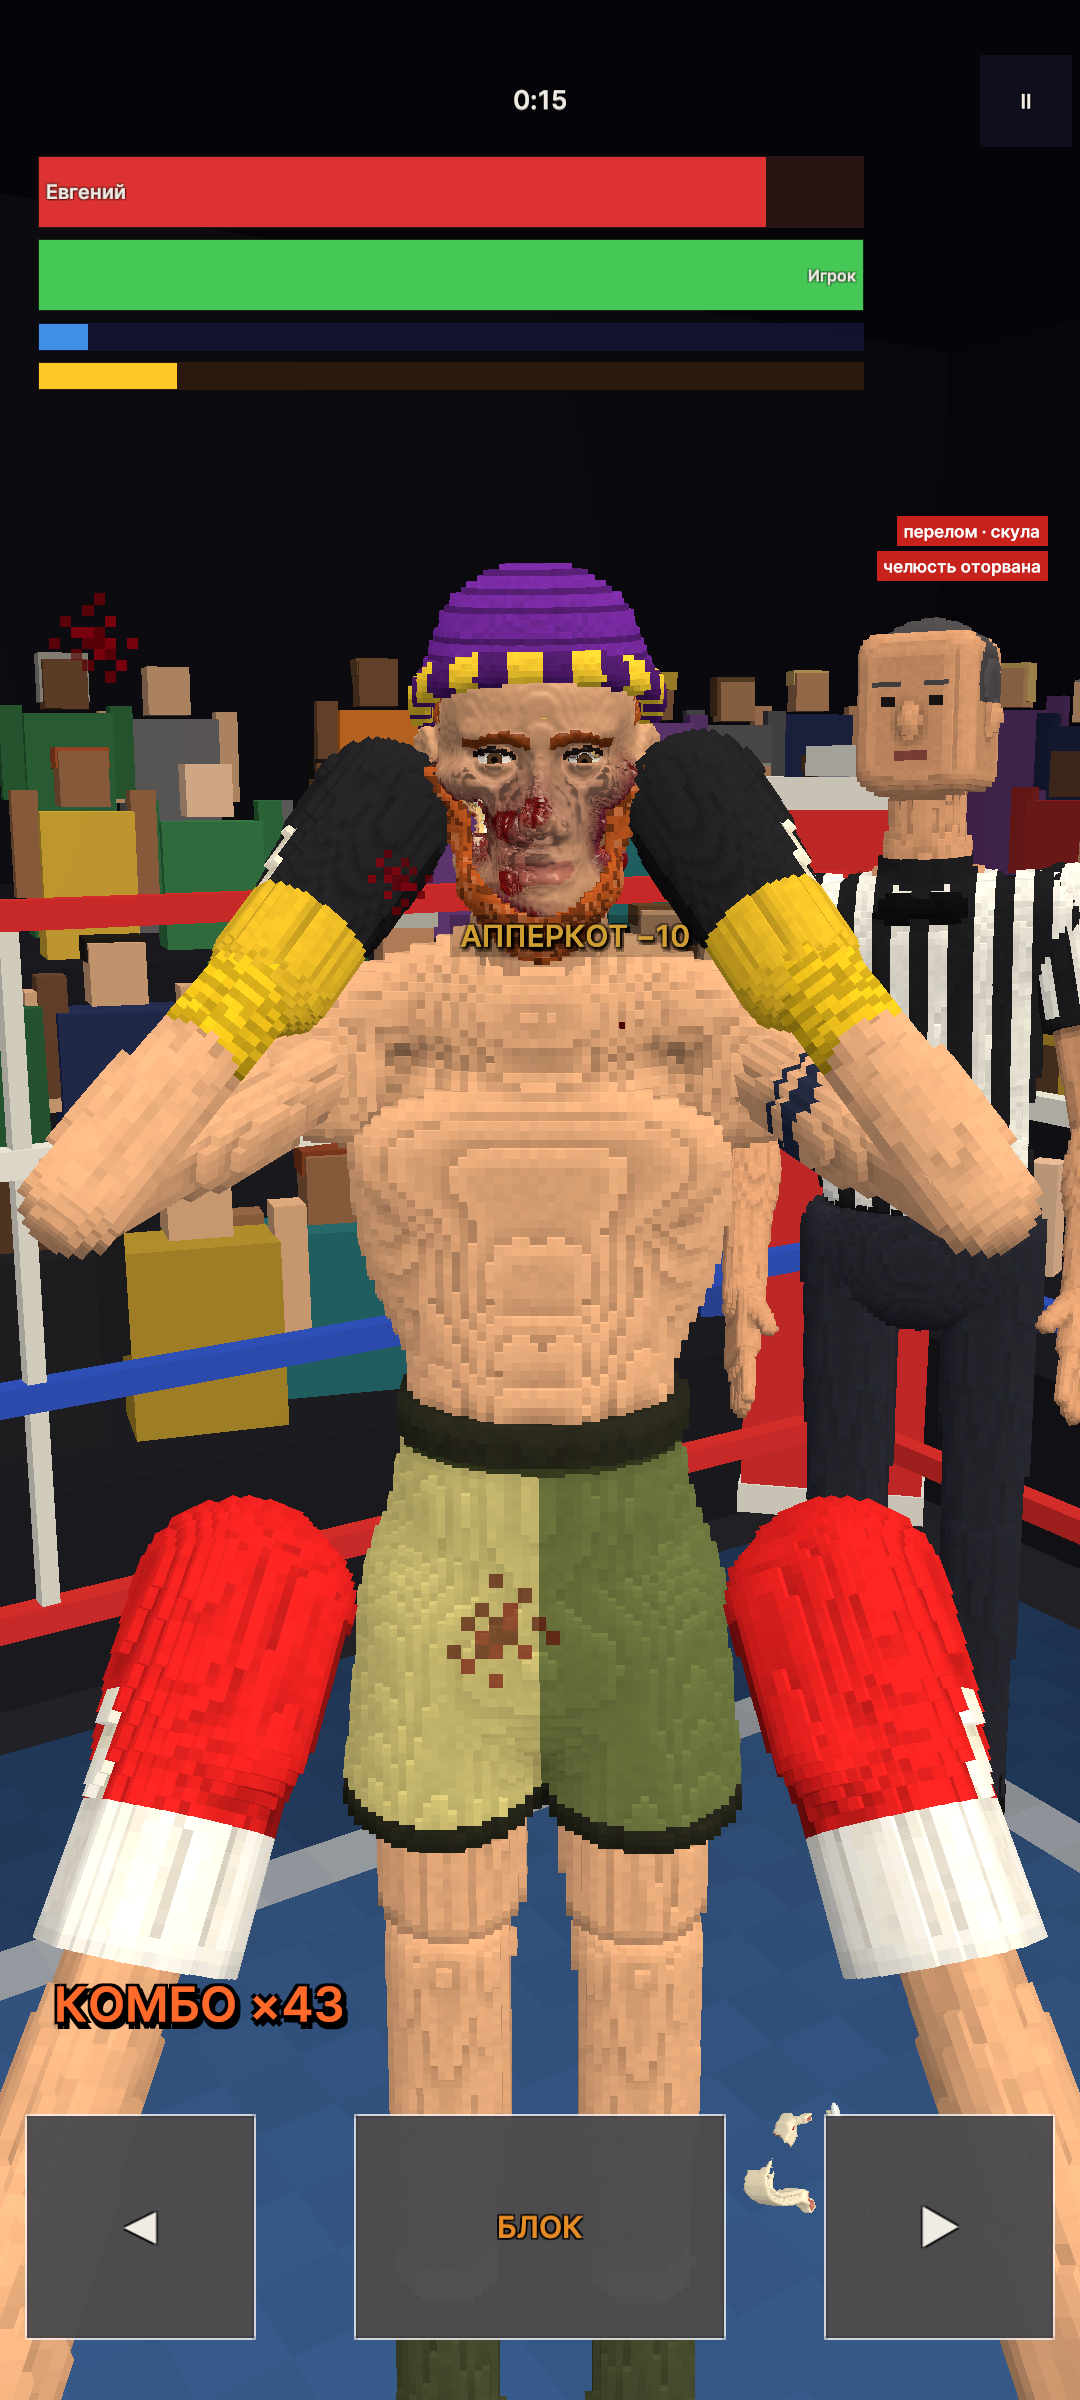
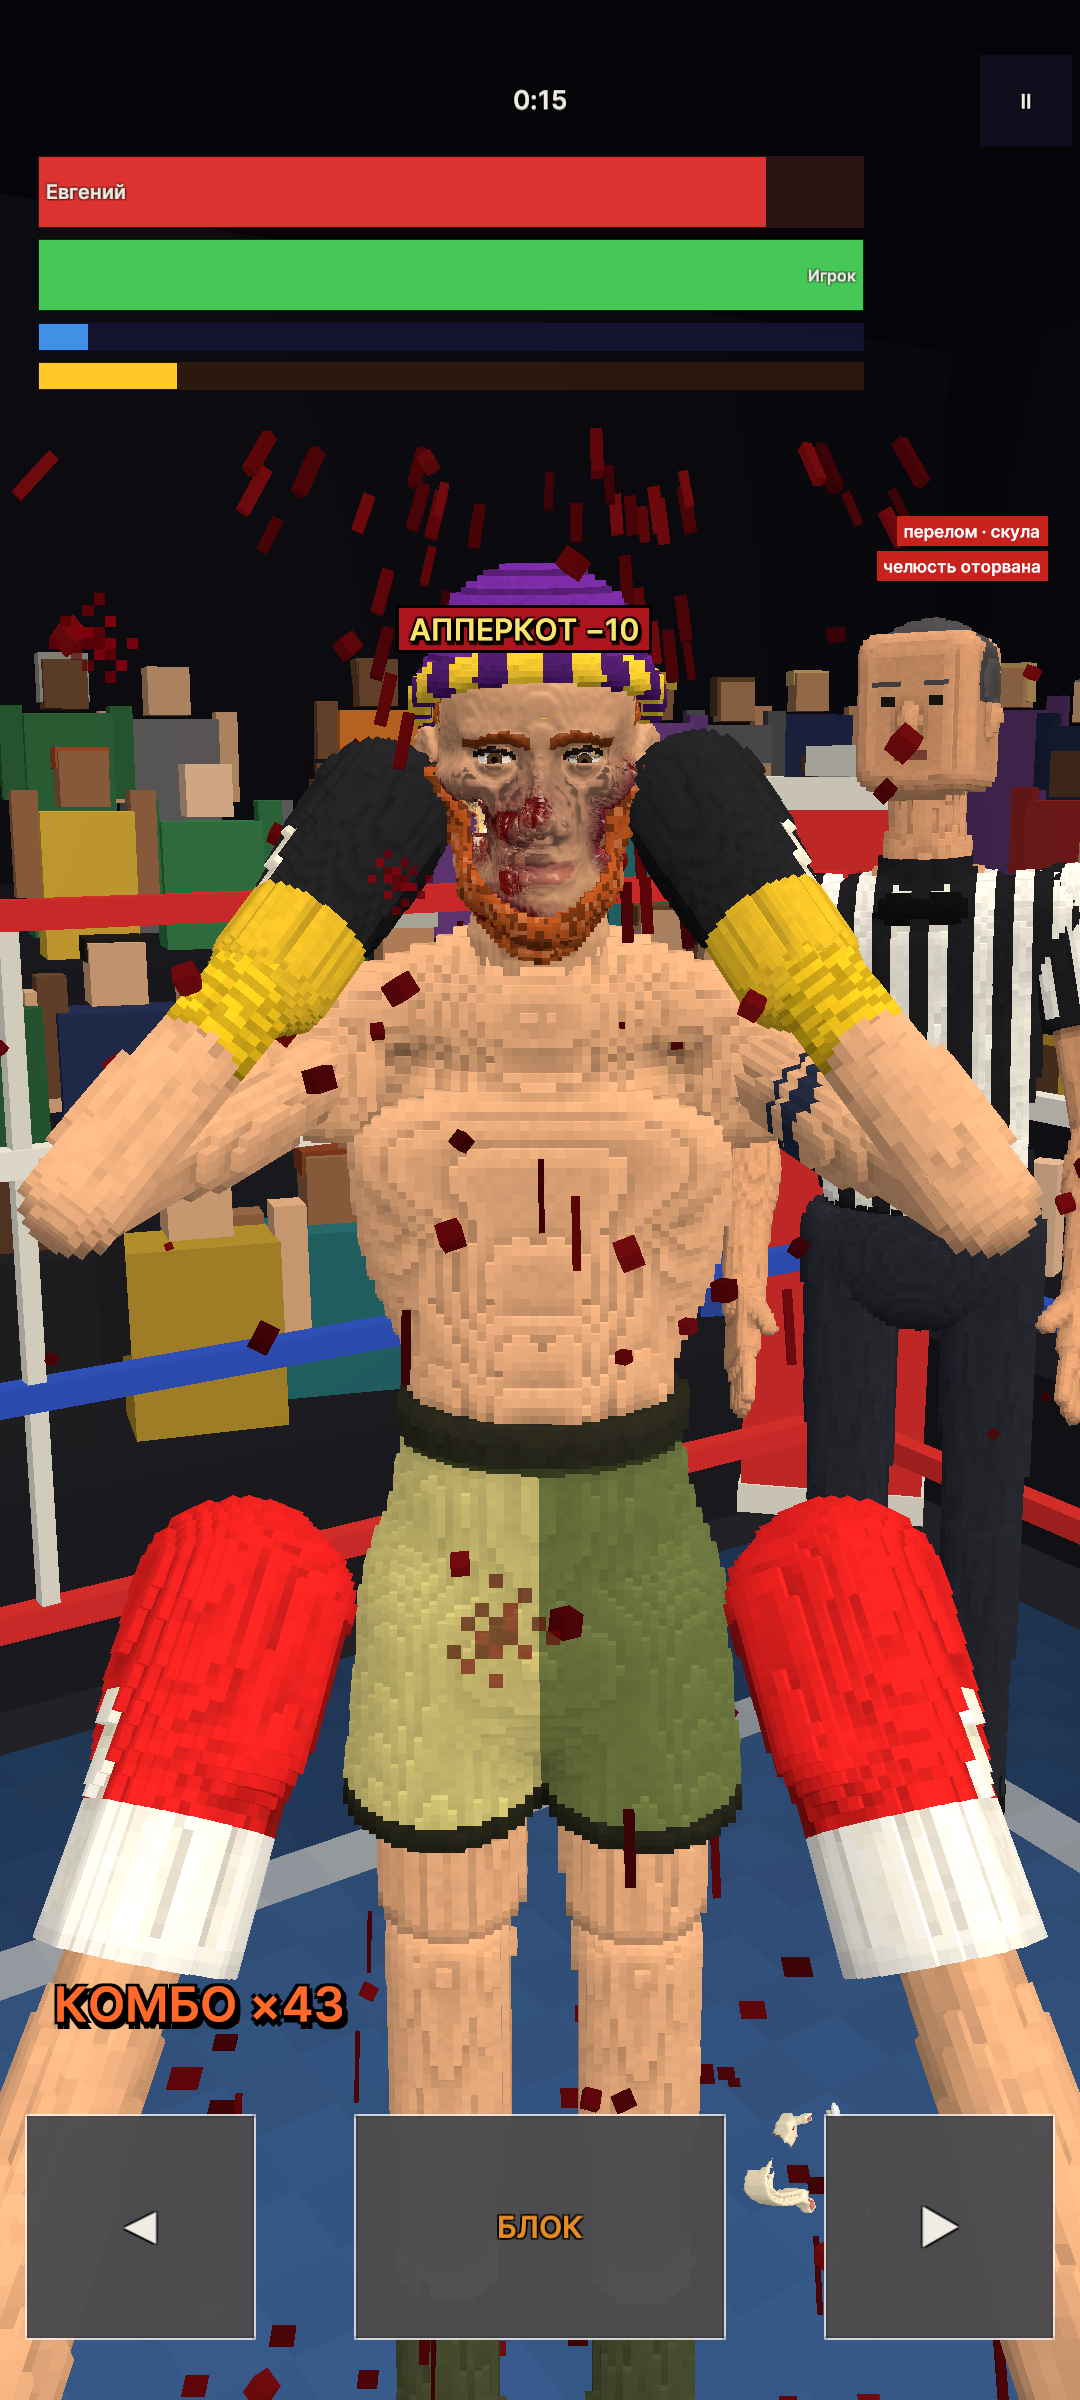
Физика боя 4: куски в рамке ринга — тест PiecesLieOnRingFloor, кадры pieces-fly/pieces-rest/drips
20 боёв: 120 кусков, 120 уснули за ≤ 3 с, под настилом 0, висящих 0; пики: куски 9/24, капли 25/160, подтёки 52/70, раны 12/44, нити 3/6.

diff --git a/Unity/Assets/Game/Tests/PhysicsTests.cs b/Unity/Assets/Game/Tests/PhysicsTests.cs
@@ -1,6 +1,7 @@
 using NUnit.Framework;
 using UnityEngine;
 using VoxGame.Editor;
+using VoxProbe;
 
 namespace VoxGame.Tests
 {
@@ -92,6 +93,28 @@ namespace VoxGame.Tests
             }
             finally { FoeFall.Enabled = was; }
         }
+
+        // Куски (направление 4): в бою мегой и силовыми куски падают на настил ринга, через 3 с не под ним и не в воздухе,
+        // ≥ 90 % уснули за ≤ 3 с; пределы кусков, капель и подтёков не превышены.
+        [Test]
+        public void PiecesLieOnRingFloor()
+        {
+            ShotsTaker.PhysPieces(2, 1, false);
+            int alive = 0, asleep = 0;
+            foreach (var l in ShotsTaker.PhysLog.Split((char)10))
+            {
+                if (!l.StartsWith("PIECES")) continue;
+                StringAssert.Contains("under=0 hang=0", l);
+                alive += Num(l, "alive="); asleep += Num(l, "asleep=");
+                Assert.LessOrEqual(Num(l, " peak="), AnatPieces.MaxPieces, l);
+                Assert.LessOrEqual(Num(l, "dripsPeak="), AnatDamage.MaxDrips, l);
+                Assert.LessOrEqual(Num(l, "dropsPeak="), AnatDamage.MaxDrops, l);
+            }
+            Assert.Greater(alive, 0, "куски есть");
+            Assert.GreaterOrEqual(asleep, alive * 0.9f, ShotsTaker.PhysLog);
+        }
+
+        static int Num(string l, string k) { int i = l.IndexOf(k) + k.Length, j = i; while (j < l.Length && char.IsDigit(l[j])) j++; return int.Parse(l.Substring(i, j - i)); }
 
         // Падение не зависит от частоты кадров: те же удары при 30 и 120 к/с — те же итоги
         [Test]
